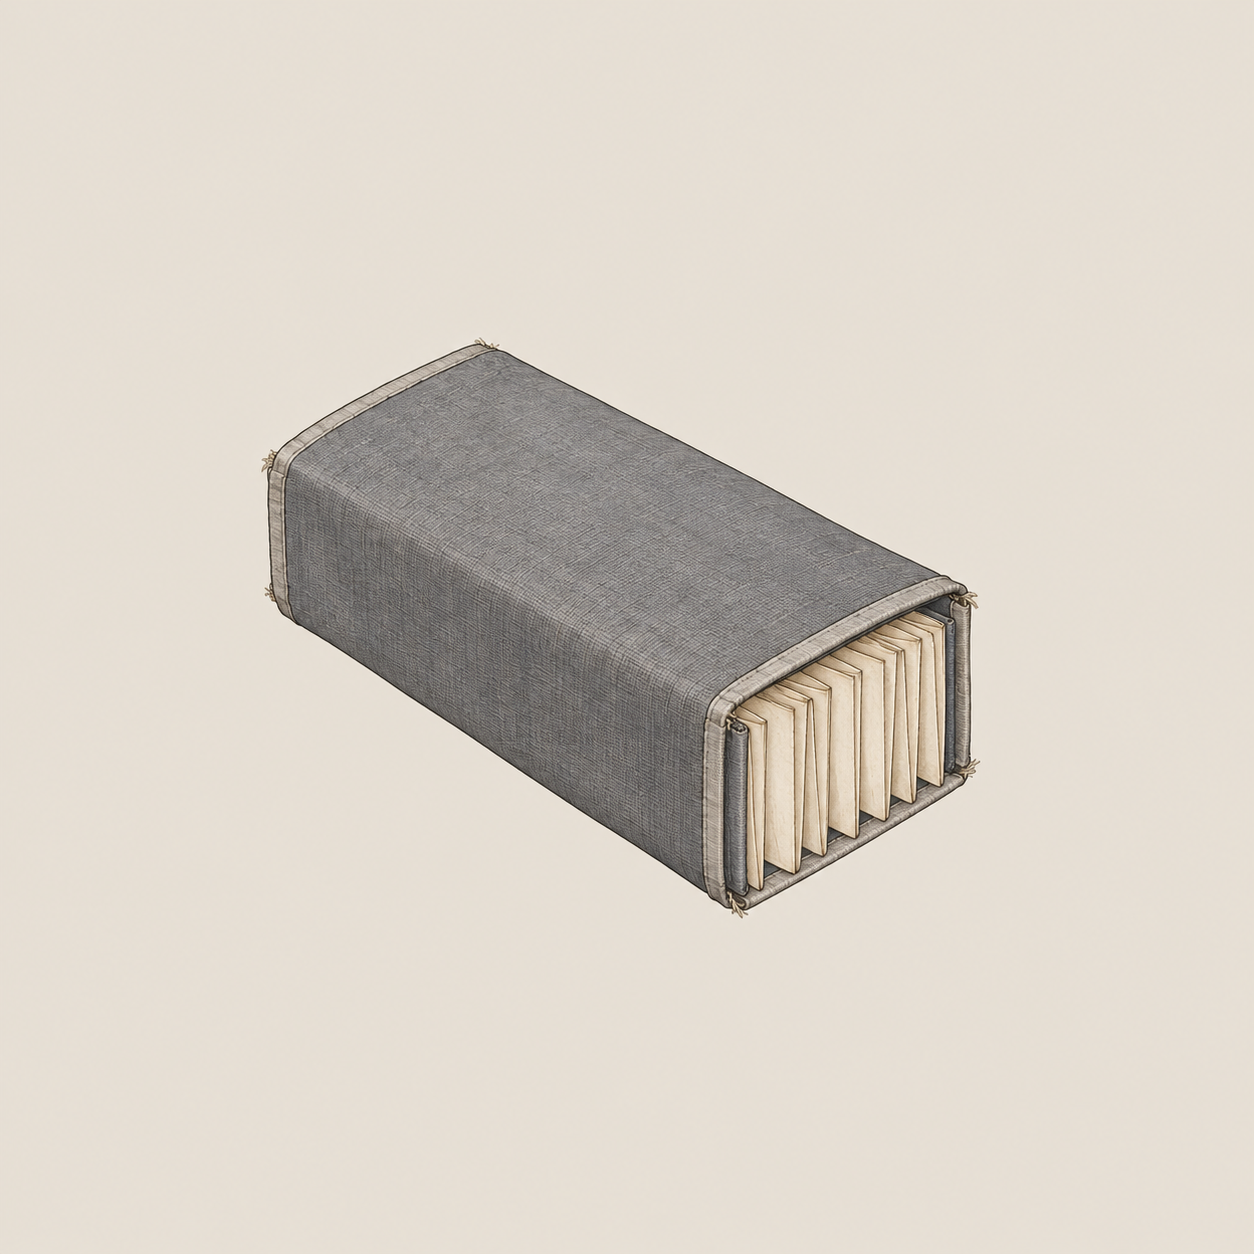
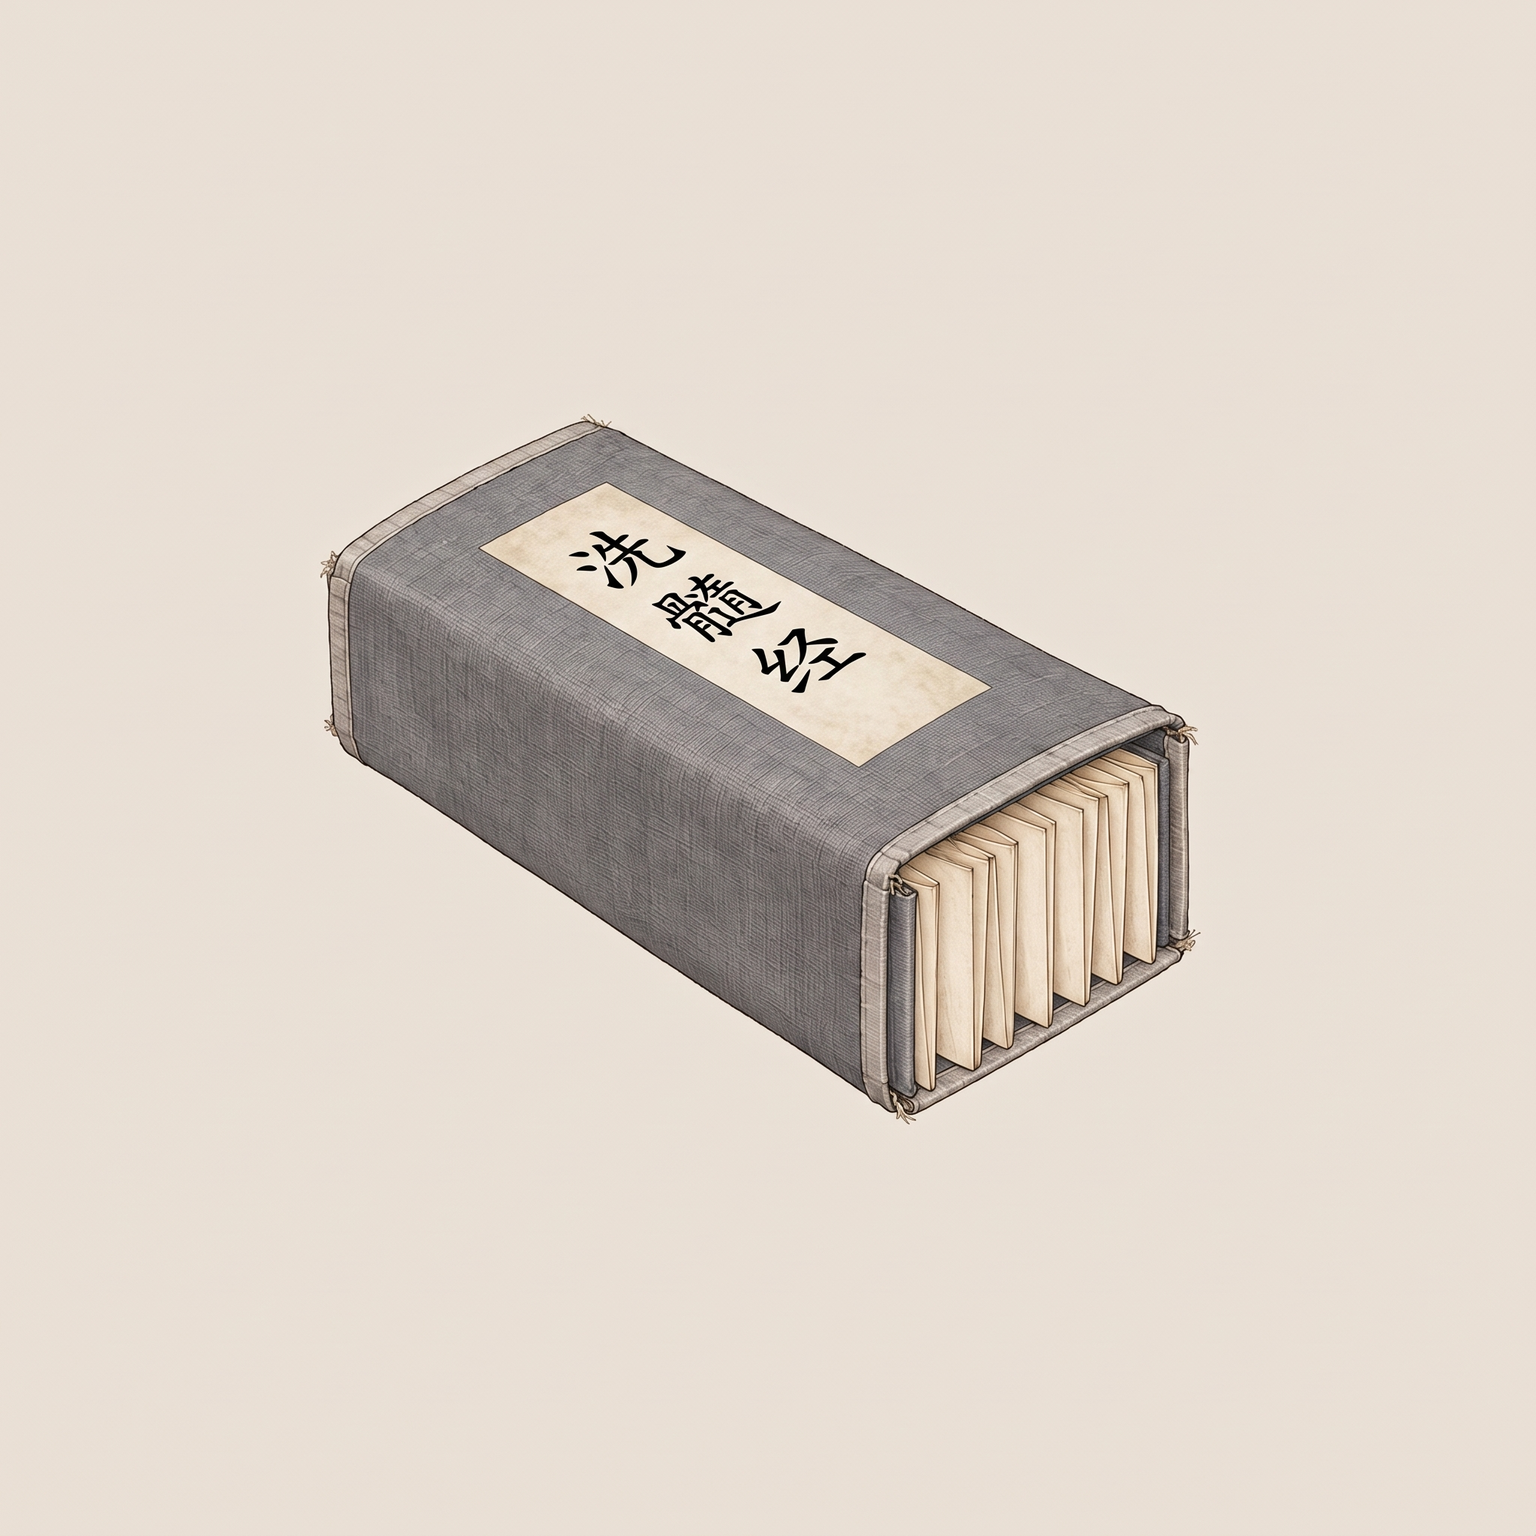
assets(gemini): it_miji_xisuijing 洗髓经藏本

diff --git a/assets/default/prompts/INDEX.md b/assets/default/prompts/INDEX.md
@@ -3,7 +3,7 @@
 > 本文件由 `tools/agents/build_image_index.py` 生成，不要手改；改提示词就改各文件，改规程就改各组 `GUIDE.md`，然后重新生成。
 > 人物立绘另见 `characters/INDEX.md`（别的 agent 在出，不在本索引）。建筑套件与贴片已出齐，只列完成度。
 
-提示词 **627** 份：已入库 254、待出图 235、已通过（作者） 138。**待出图队列 235 行**（`python3 tools/agents/build_image_index.py --queue`）。
+提示词 **627** 份：已入库 255、待出图 235、已通过（作者） 137。**待出图队列 235 行**（`python3 tools/agents/build_image_index.py --queue`）。
 
 ## 出图 agent 怎么用
 
@@ -397,7 +397,7 @@
 | 119 | 猪肚 | `it_zhudu` | 黄 | 食材·肉 | 待出图 | [it_zhudu.md](items/food/it_zhudu.md) | template |
 | 120 | 猪肉 | `it_zhurou` | 黄 | 食材·肉 | 待出图 | [it_zhurou.md](items/food/it_zhurou.md) | template |
 
-### 武学秘籍（18）· 已入库 12、已通过（作者） 6
+### 武学秘籍（18）· 已入库 13、已通过（作者） 5
 
 （已全部入库。）
 
